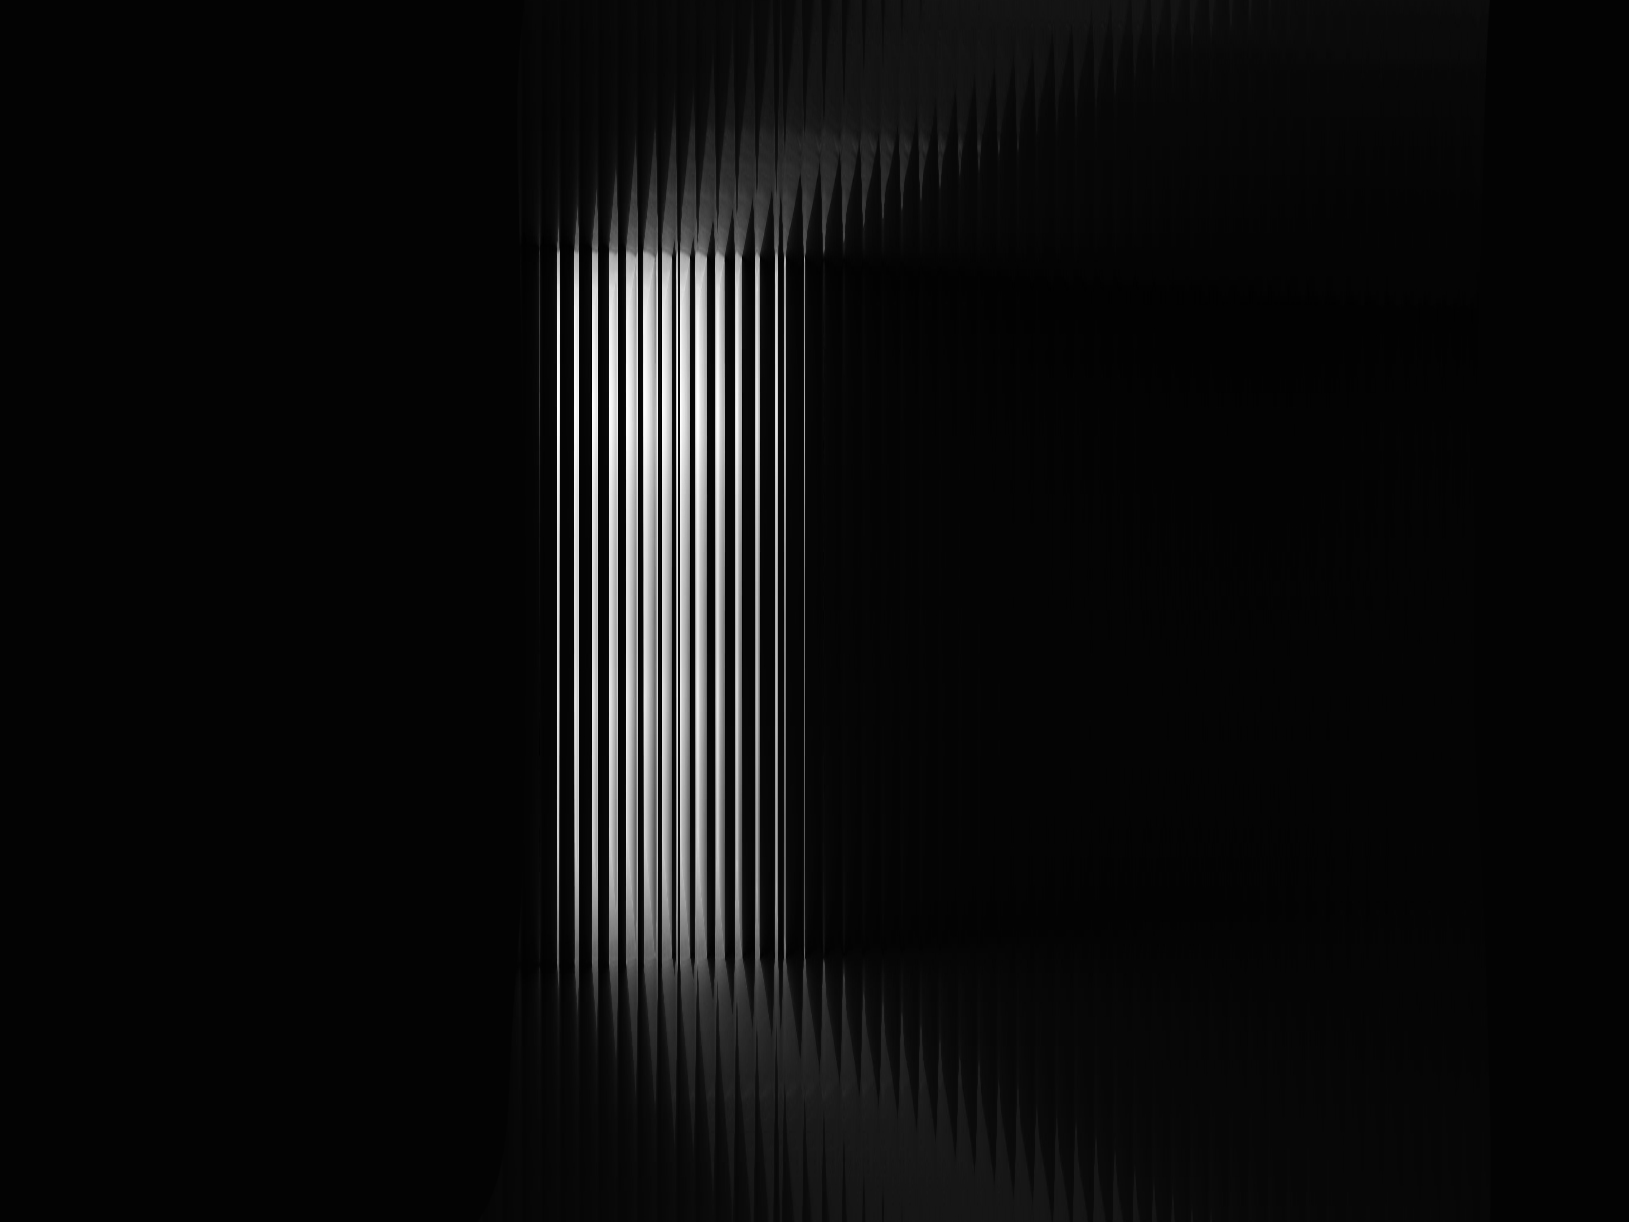
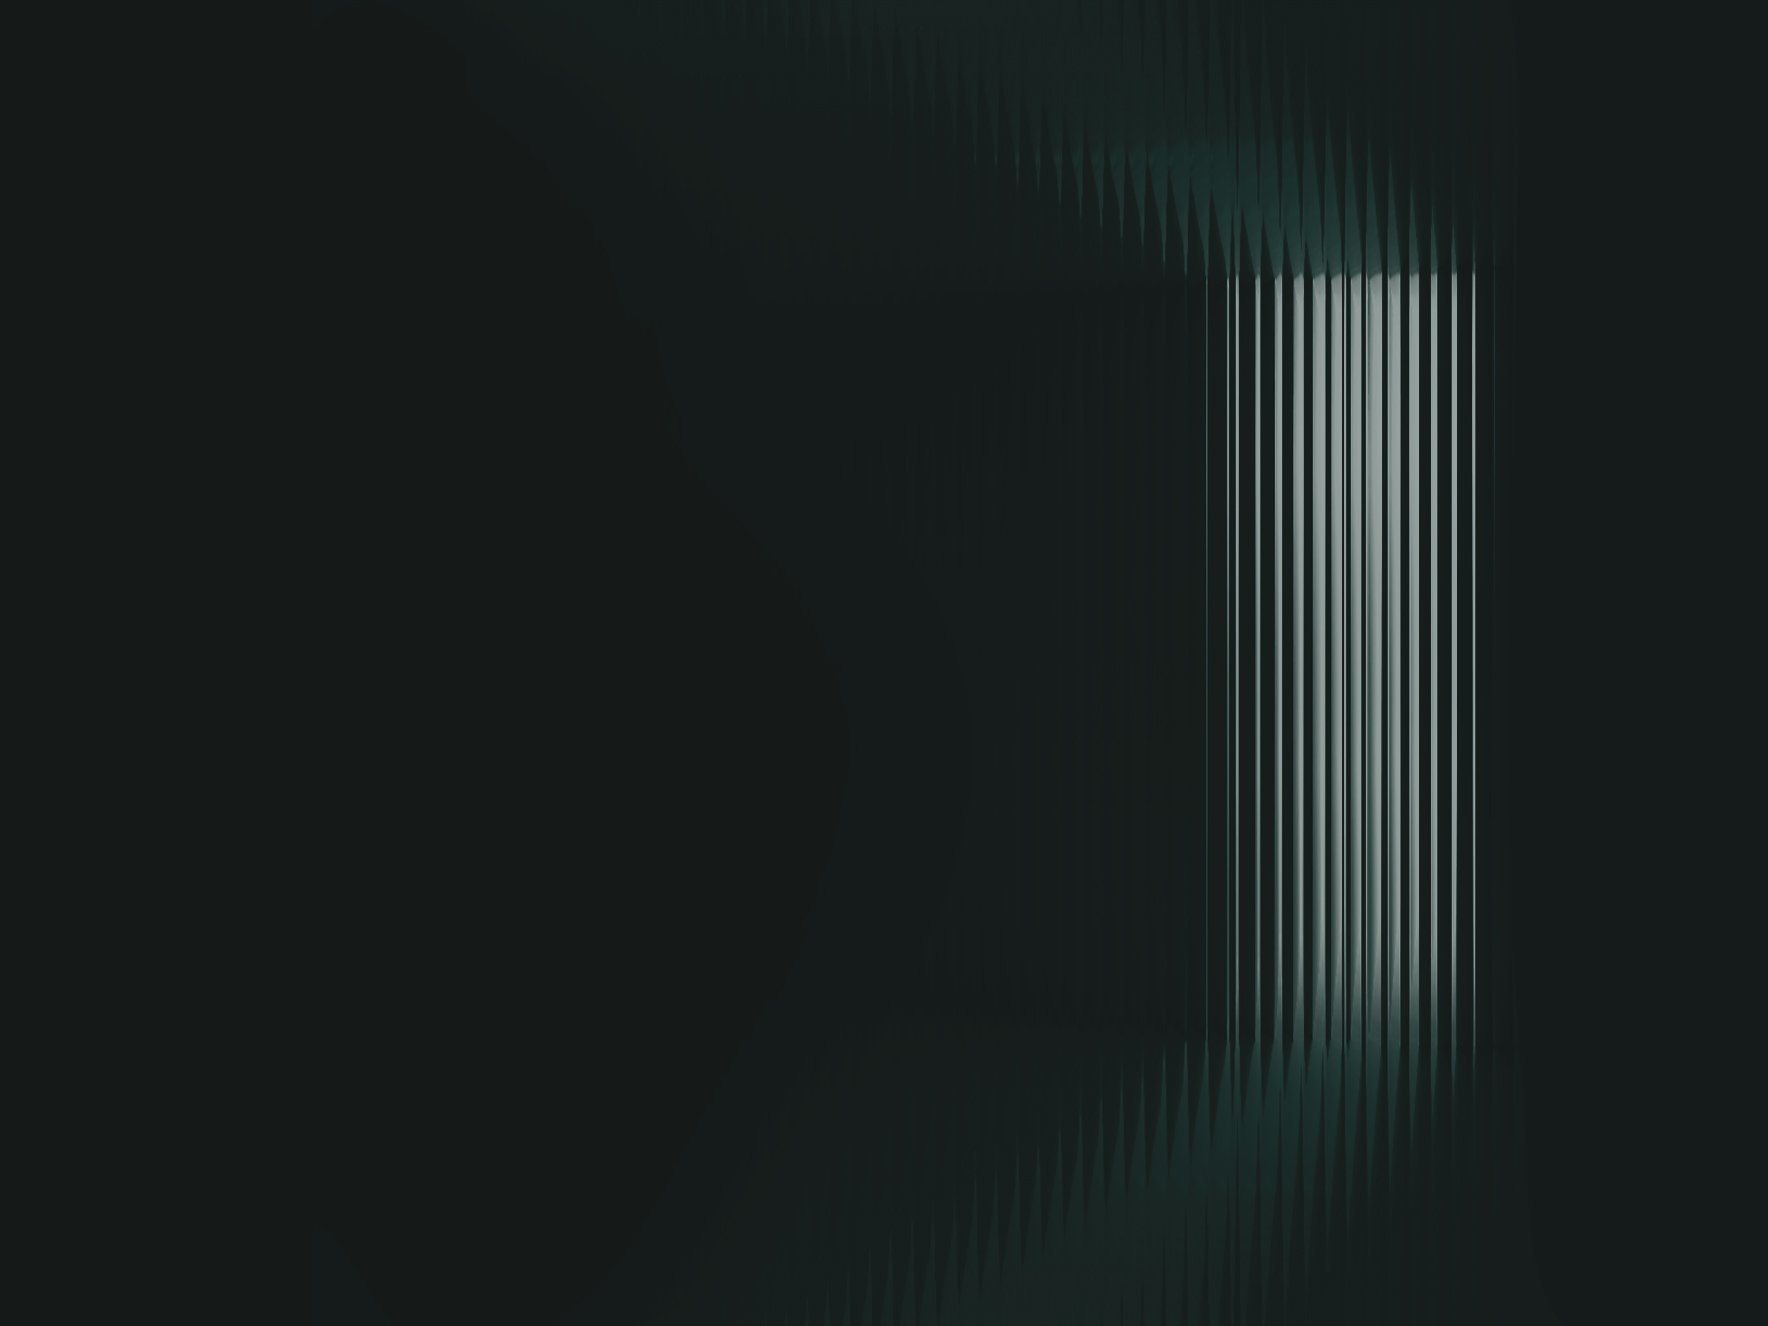
1

Changed region(s): [[0.3376, 0.0311, 0.9208, 0.9951], [0.2455, 0.0, 0.399, 0.0622], [0.4297, 0.0, 0.5218, 0.0311]]

diff --git a/index.html b/index.html
@@ -658,7 +658,7 @@ body {
       
       <div class="p-6 md:p-8 pt-3 md:pt-4 flex flex-col flex-grow">
         
-        <p class="text-sm md:text-base text-[#A8B0A9] mb-6 flex-grow leading-relaxed">На сессиях мы разбираем ваш конкретный запрос: что происходит, почему это происходит именно так и какие внутренние механизмы поддерживают проблему.</p>
+        <p class="text-sm md:text-base text-[#A8B0A9] mb-6 flex-grow leading-relaxed">Индивидуальная работа с психологом по вашему запросу или без него. Помогает понять, что с вами происходит, почему это так и постепенно изменить это, чтобы улучшить качество вашей жизни.</p>
         
         <div class="mt-auto flex items-center justify-between gap-4">
           <div class="flex-shrink-0 bg-[#FEA6A6] text-black px-8 py-2.5 rounded-full text-xs font-black uppercase tracking-widest hover:bg-white hover:scale-105 transition-all duration-300 shadow-lg shadow-[#FEA6A6]/10 flex items-center justify-center h-[42px]">
@@ -694,7 +694,7 @@ body {
       
       <div class="p-6 md:p-8 pt-3 md:pt-4 flex flex-col flex-grow">
         
-        <p class="text-sm md:text-base text-[#A8B0A9] mb-6 flex-grow leading-relaxed">Сны - один из самых прямых способов увидеть, что происходит в бессознательной части психики.</p>
+        <p class="text-sm md:text-base text-[#A8B0A9] mb-6 flex-grow leading-relaxed">Индивидуальный анализ Вашего сновидения. Помогает расшифровать и осознать импульсы бессознательного для дальнейших изменений в жизни.</p>
         
         <div class="mt-auto flex items-center justify-between gap-4">
           <div class="flex-shrink-0 bg-[#FEA6A6] text-black px-8 py-2.5 rounded-full text-xs font-black uppercase tracking-widest hover:bg-white hover:scale-105 transition-all duration-300 shadow-lg shadow-[#FEA6A6]/10 flex items-center justify-center h-[42px]">
@@ -730,7 +730,7 @@ body {
       
       <div class="p-6 md:p-8 pt-3 md:pt-4 flex flex-col flex-grow">
         
-        <p class="text-sm md:text-base text-[#A8B0A9] mb-6 flex-grow leading-relaxed">Метод, который помогает быстро увидеть бессознательные установки и эмоциональные реакции, связанные с вашим запросом.</p>
+        <p class="text-sm md:text-base text-[#A8B0A9] mb-6 flex-grow leading-relaxed">Методика свободных ассоциаций в текстовом формате. Помогает понять, почему вы так реагируете в конкретной ситуации, и наметить, что с этим можно делать дальше без включения в терапию.</p>
         
         <div class="mt-auto flex items-center justify-between gap-4">
           <div class="flex-shrink-0 bg-[#FEA6A6] text-black px-8 py-2.5 rounded-full text-xs font-black uppercase tracking-widest hover:bg-white hover:scale-105 transition-all duration-300 shadow-lg shadow-[#FEA6A6]/10 flex items-center justify-center h-[42px]">
@@ -766,7 +766,7 @@ body {
       
       <div class="p-6 md:p-8 pt-3 md:pt-4 flex flex-col flex-grow">
         
-        <p class="text-sm md:text-base text-[#A8B0A9] mb-6 flex-grow leading-relaxed">Экстренная эмоциональная скорая помощь. Безопасное пространство, где можно выгрузить все, что накопилось.</p>
+        <p class="text-sm md:text-base text-[#A8B0A9] mb-6 flex-grow leading-relaxed">Разовая сессия эмоциональной разгрузки. Когда накопилось и хочется выговориться без разбора "почему вы такие". Помогает снять напряжение и не тащить это дальше в себе.</p>
         
         <div class="mt-auto flex items-center justify-between gap-4">
           <div class="flex-shrink-0 bg-[#FEA6A6] text-black px-8 py-2.5 rounded-full text-xs font-black uppercase tracking-widest hover:bg-white hover:scale-105 transition-all duration-300 shadow-lg shadow-[#FEA6A6]/10 flex items-center justify-center h-[42px]">
